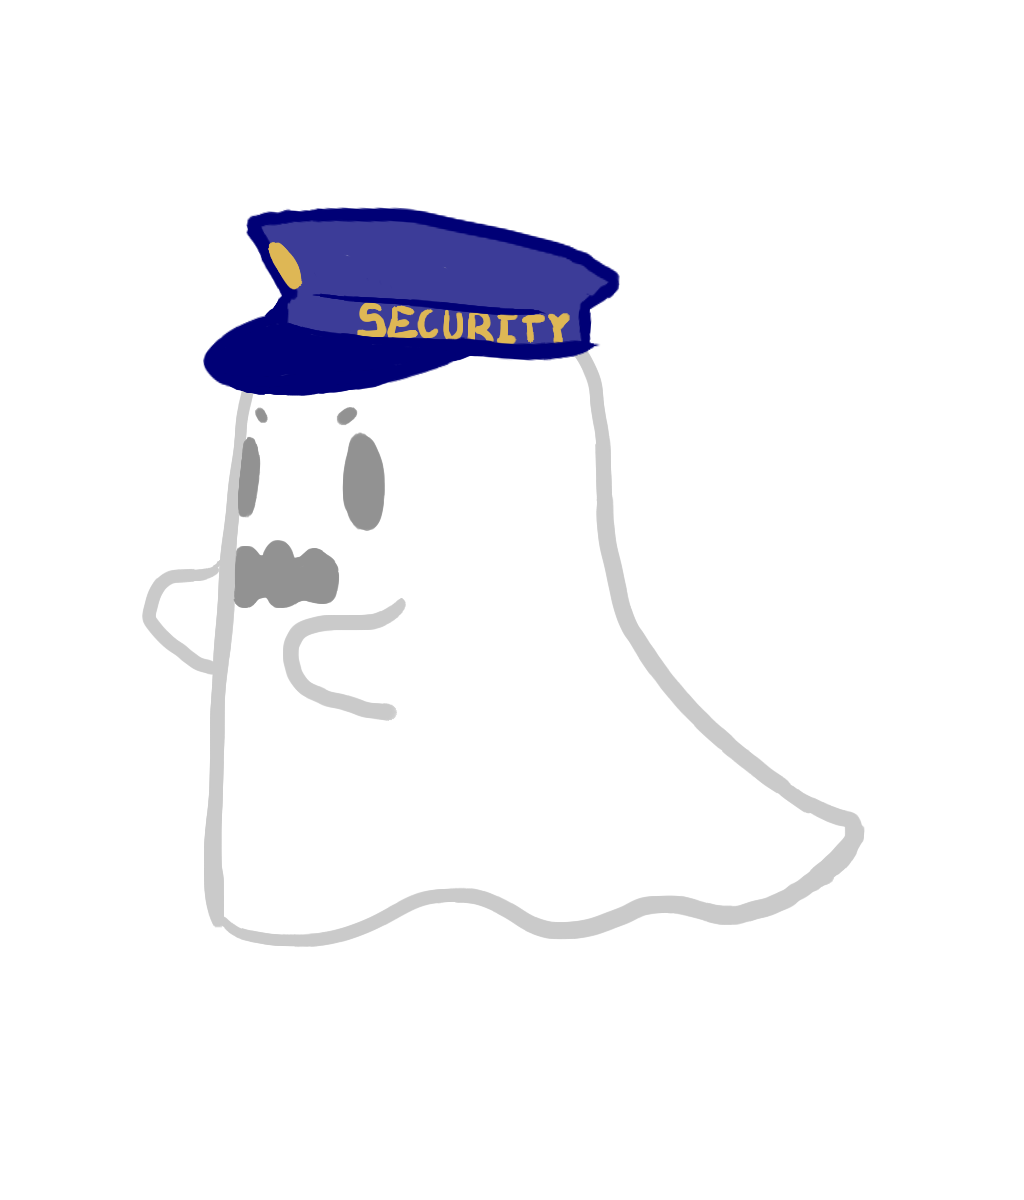
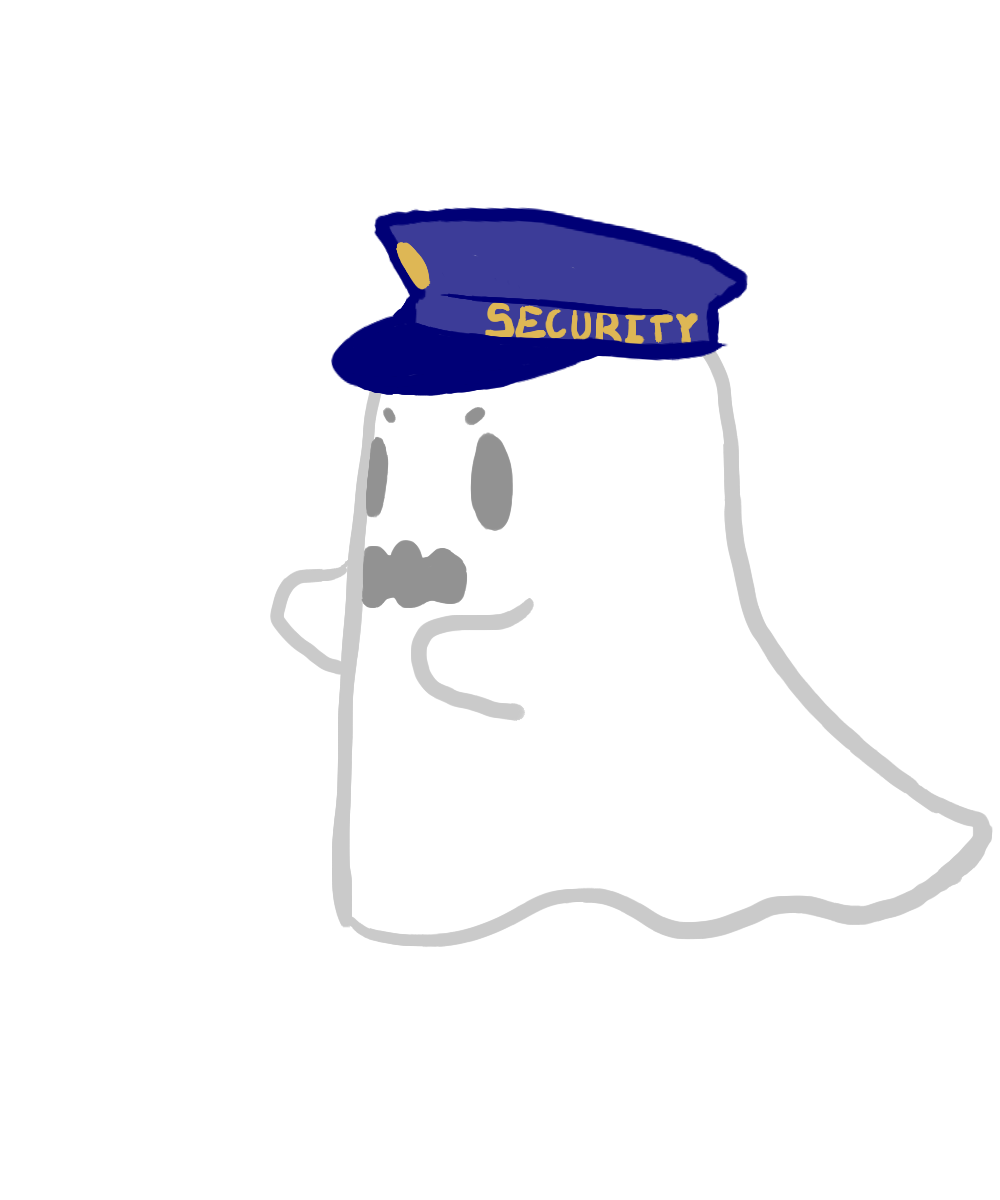
Enemies can see you and end the game

diff --git a/src/js/game.js b/src/js/game.js
@@ -6,8 +6,8 @@
 
 	var player;
 	var playerState = "walking";
-	var playerDir = {left: 1, right: -1};
-	var currPlayerDir = playerDir.left;
+	var actorDir = {left: 1, right: -1};
+	var currPlayerDir = actorDir.left;
 	var hidingPlayerTheatre = 0;
 	var floor;
 	var theatres;
@@ -18,6 +18,7 @@
 	var throwKey;
 	var playerMark;
 	var markLoc;
+	var enemies = [];
 	
 	var TheatreParts = {LWALL: 0, UWALL: 1, WELL: 2, SCREEN: 3};
 	
@@ -25,6 +26,8 @@
 	var MOVEMENT_SPEED = 5;
 	var TOTAL_THEATRES = 6;
 	var THEATRE_WIDTH = 474;
+	var TOTAL_ENEMIES = Math.round(TOTAL_THEATRES / 3);
+	var ENEMY_RANGE = 500;
 	var MAX_FACE = 3;
 	var MAX_ENMH = 5;
 	var worldWidth = TOTAL_THEATRES * THEATRE_WIDTH;
@@ -131,11 +134,27 @@
 				floor.create(i, floorLine, 'floor');
 			floor.setAll('tint', 0xd0d0d0);
 			
-			player = this.game.add.sprite(100, walkingPlayerY, 'player')
+			player = this.game.add.sprite(100, walkingPlayerY, 'player');
 			player.anchor.set(0.5, 0.5);
 			this.game.physics.arcade.enable(player);
 			player.body.collideWorldBounds = true;
 			this.game.camera.follow(player, Phaser.Camera.FOLLOW_TOPDOWN);
+			
+			for (var i = 0; i < TOTAL_ENEMIES; i++) {
+				var locX = Math.floor(Math.random() * (worldWidth - 450)) + 300;
+				enemies[i] = {
+					e: this.game.add.sprite(locX, walkingPlayerY, 'enemy'),
+					dir: (Math.round(Math.random()) === 0) ? actorDir.left : actorDir.right,
+					startX: locX,
+					max: locX + ENEMY_RANGE,
+					min: locX - ENEMY_RANGE,
+					speed: MOVEMENT_SPEED - 4
+				};
+				enemies[i].e.anchor.set(0.5, 0.5);
+				enemies[i].e.scale.set(.25);
+				this.game.physics.arcade.enable(enemies[i].e);
+				enemies[i].e.body.collideWorldBounds = true;
+			}
 			
 			for (var i = 0; i < TOTAL_THEATRES; i++) {
 				theatres.theatres[i].em = this.game.add.emitter((i * THEATRE_WIDTH) + THEATRE_WIDTH / 2, 200, 200);
@@ -160,7 +179,43 @@
 			throwKey = this.game.input.keyboard.addKey(Phaser.Keyboard.SPACEBAR);
 		},
 
-		update: function () {			
+		update: function () {	
+			
+			for (var i = 0; i < TOTAL_ENEMIES; i++) {
+				if (enemies[i].e.x >= enemies[i].max || enemies[i].e.x <= enemies[i].min) {
+					if (enemies[i].e.x >= enemies[i].max) {
+						enemies[i].dir = actorDir.left;
+						enemies[i].e.x -= enemies[i].speed;
+					}
+					else if (enemies[i].e.x <= enemies[i].min) {
+						enemies[i].dir = actorDir.right;
+						enemies[i].e.x += enemies[i].speed;
+					}
+				}
+				else
+					if (enemies[i].dir == actorDir.right)
+						enemies[i].e.x += enemies[i].speed;
+					else if (enemies[i].dir == actorDir.left) {
+						enemies[i].e.x -= enemies[i].speed;
+					}
+				if (enemies[i].dir == actorDir.right)
+					enemies[i].e.scale.x = -.25;
+				else
+					enemies[i].e.scale.x = .25;
+					
+				var min = player.x + (player.width * currPlayerDir) / 2 > (enemies[i].e.x - (enemies[i].e.width * enemies[i].dir) / 2);
+				var max = player.x - (player.width * currPlayerDir) / 2 < (enemies[i].e.x - (enemies[i].e.width * enemies[i].dir) / 2);
+				if ((min && max) && playerState !== "hiding") {
+					var context = this;
+					function seen() {
+						context.game.paused = false;
+						context.game.state.start('winLose', true, false, "were seen");
+					}
+					this.game.paused = true;
+					window.setTimeout(seen, 1000);
+				}
+			}
+					
 			if (playerState === "walking") {
 				var wells = theatres.getParts(TheatreParts.WELL);
 				
@@ -177,12 +232,12 @@
 				if (cursors.left.isDown && player.y === walkingPlayerY) {
 					player.x -= MOVEMENT_SPEED;
 					player.scale.x = 1;
-					currPlayerDir = playerDir.left;
+					currPlayerDir = actorDir.left;
 				}
 				else if (cursors.right.isDown && player.y === walkingPlayerY) {
 					player.x += MOVEMENT_SPEED;
 					player.scale.x = -1;
-					currPlayerDir = playerDir.right;
+					currPlayerDir = actorDir.right;
 				}
 				
 				player.tint = 0xffffff;

diff --git a/src/js/preloader.js b/src/js/preloader.js
@@ -35,7 +35,6 @@
 			this.game.load.image("restart", "restart button.png");
 
 			// ----- Background -----
-			this.game.load.image('player', 'kenny/Characters/Hedgehog/hedgehog_body.png');
 			this.game.load.image('well', 'backgrounds/well.png');
 			this.game.load.image('screen', 'backgrounds/screen.png');
 
@@ -47,6 +46,10 @@
 			this.game.load.image('smoke1', 'effects/smoke 1.png');
 			this.game.load.image('smoke2', 'effects/smoke 2.png');
 			this.game.load.image('smoke3', 'effects/smoke 3.png');
+
+			// ----- Actors -----
+			this.game.load.image('player', 'kenny/Characters/Hedgehog/hedgehog_body.png');
+			this.game.load.image('enemy', 'Mr Boo.png');
 
 			// ----- Face Stuff -----
 			// Popup

diff --git a/src/js/winLose.js b/src/js/winLose.js
@@ -16,9 +16,9 @@
 			var text = "You " + winlose + "!"
 			var title = this.game.add.text(512, 300, text, style);
 			title.anchor.set(0.5);
-			if (winlose === "lose")
-				title.addColor("#FF4C4C", 0);
-			else title.addColor("#4CFF4C", 0);
+			if (winlose === "win")
+				title.addColor("#4CFF4C", 0);
+			else title.addColor("#FF4C4C", 0);
 		},
 		update: function () {
 	
